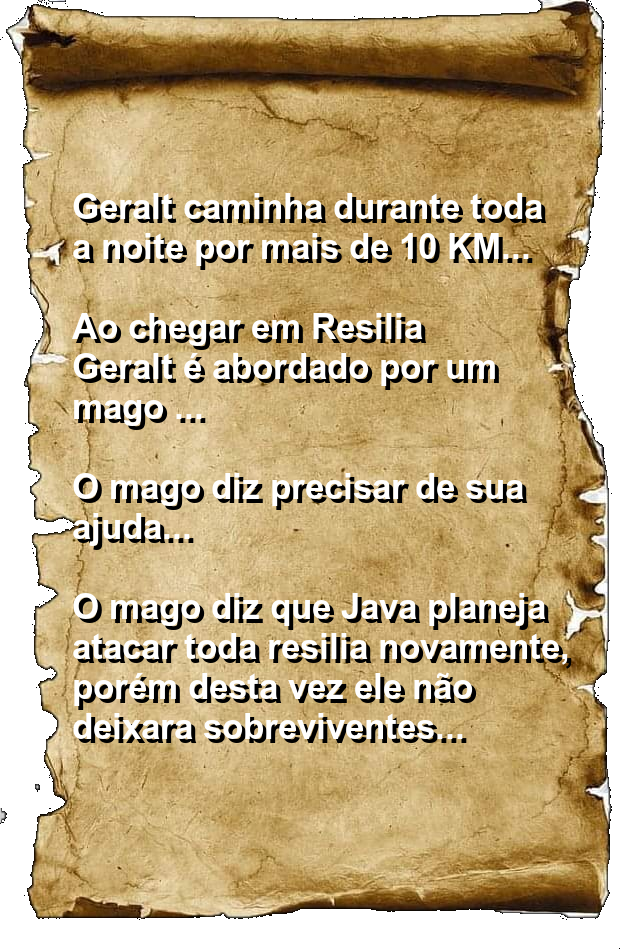
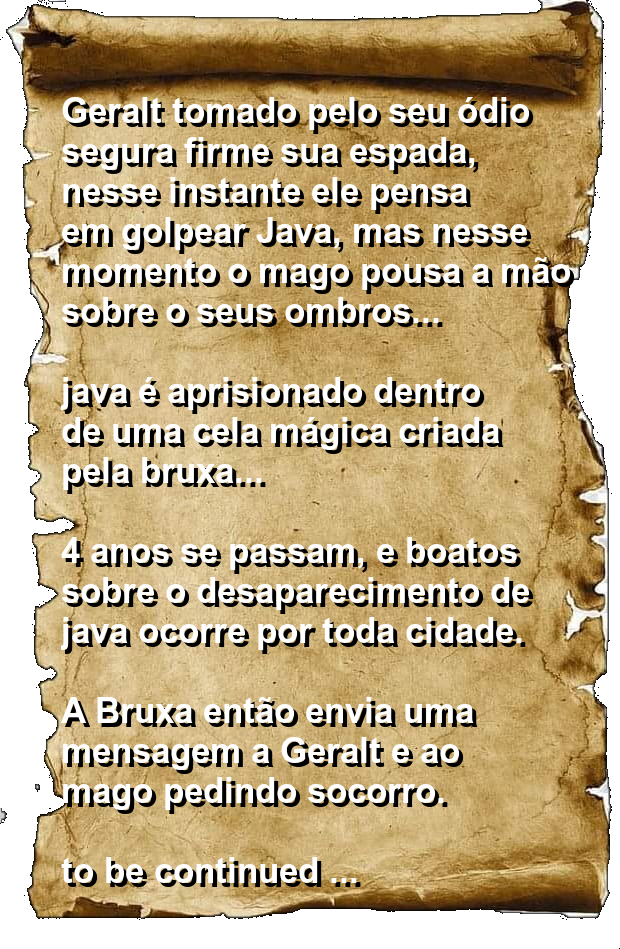
terminado por completo a historia do guerreiro

diff --git a/guerreiroPergunta2.html b/guerreiroPergunta2.html
@@ -7,28 +7,28 @@
             <link rel="stylesheet" href="estilo/personagens.css">
             <link href="https://fonts.googleapis.com/css2?family=Permanent+Marker&display=swap" rel="stylesheet">
         </head>
-        <body class="bgGuerreirocena1">
+        <body class="bgGuerreirocenaend">
             <header>
             </header>
             <main>
                 <section class="texto">
                     <div class="boxPapel">
-                    <img src="guerreiro/gp1.png" class="papel">
+                    <img src="guerreiro/gp2.png" class="papel">
                     </div>
                 </section>
             </main>
             <script>
-                    setTimeout(function(){alert("comece suas escolhas")
+                    setTimeout(function(){
                         while(true){ 
-                                var escolha = prompt(" digite:(1) para entrar no vilarejo" + "\n" + " digite:(2) para seguir viagem" )
+                                var escolha = prompt(" digite:(1) para matar Java" + "\n" + " digite:(2) para ficar calmo" )
                                 if(escolha == 1){
-                                    document.write(location.assign("gameOver.css"))
-                                    document.write(location.assign("guerreiroP1Resposta1.html"))
+                                    document.write(location.assign("personagens.css"))
+                                    document.write(location.assign("guerreiroP2Resposta1.html"))
                                     break
                                 }
                                 else if(escolha == 2){
                                     document.write(location.assign("personagens.css"))
-                                    document.write(location.assign("guerreiroP1Resposta2.html"))
+                                    document.write(location.assign("guerreiroP2Resposta2.html"))
                                     break;
                                 }
 

diff --git a/guerreiroP2Resposta1.html b/guerreiroP2Resposta1.html
@@ -4,23 +4,23 @@
             <meta charset="utf-8">
             <title>Guerreiro</title>
             <link rel="stylesheet" href="estilo/reset.css">
-            <link rel="stylesheet" href="estilo/gameOver.css">
+            <link rel="stylesheet" href="estilo/personagens.css">
             <link href="https://fonts.googleapis.com/css2?family=Permanent+Marker&display=swap" rel="stylesheet">
         </head>
-        <body class="bggameover">
+        <body class="bgGuerreirocenaend">
             <header>
             </header>
             <main>
                 <section class="texto">
                     <div class="boxPapel">
-                    <img src="guerreiro/gp1gameover.png" class="papel">
+                    <img src="guerreiro/gp2r1.png" class="papel">
                     </div>
                 </section>
             </main>
             <script>
-                setTimeout(function(){alert("comece novamente")
+                setTimeout(function(){alert("Final Do Jogo. Obrigado por Jogar")
                     while(true){ 
-                            var escolha = prompt(" digite:(1) para recomeçar" + "\n" + " digite:(2) para escolher outro personagem" )
+                            var escolha = prompt(" digite:(1) para jogar novamente" + "\n" + " digite:(2) para jogar com outro personagem" )
                             if(escolha == 1){
                                 document.write(location.assign("personagens.css"))
                                 document.write(location.assign("guerreiroHistoria.html"))

diff --git a/guerreiroP2Resposta2.html b/guerreiroP2Resposta2.html
@@ -4,23 +4,23 @@
             <meta charset="utf-8">
             <title>Guerreiro</title>
             <link rel="stylesheet" href="estilo/reset.css">
-            <link rel="stylesheet" href="estilo/gameOver.css">
+            <link rel="stylesheet" href="estilo/personagens.css">
             <link href="https://fonts.googleapis.com/css2?family=Permanent+Marker&display=swap" rel="stylesheet">
         </head>
-        <body class="bggameover">
+        <body class="bgGuerreirocenaend">
             <header>
             </header>
             <main>
                 <section class="texto">
                     <div class="boxPapel">
-                    <img src="guerreiro/gp1gameover.png" class="papel">
+                    <img src="guerreiro/gp2r2.png" class="papel">
                     </div>
                 </section>
             </main>
             <script>
-                setTimeout(function(){alert("comece novamente")
+                setTimeout(function(){alert("Final Do Jogo. Obrigado por Jogar")
                     while(true){ 
-                            var escolha = prompt(" digite:(1) para recomeçar" + "\n" + " digite:(2) para escolher outro personagem" )
+                            var escolha = prompt(" digite:(1) para jogar novamente" + "\n" + " digite:(2) para jogar com outro personagem" )
                             if(escolha == 1){
                                 document.write(location.assign("personagens.css"))
                                 document.write(location.assign("guerreiroHistoria.html"))

diff --git a/guerreiroHistoria2.html b/guerreiroHistoria2.html
@@ -1,0 +1,40 @@
+<!DOCTYPE html>
+    <html lang="pt-br">
+        <head>
+            <meta charset="utf-8">
+            <title>Guerreiro</title>
+            <link rel="stylesheet" href="estilo/reset.css">
+            <link rel="stylesheet" href="estilo/personagens.css">
+            <link href="https://fonts.googleapis.com/css2?family=Permanent+Marker&display=swap" rel="stylesheet">
+        </head>
+        <body class="bgGuerreirocena3">
+            <header>
+            </header>
+            <main>
+                <section class="texto">
+                    <div class="boxPapel">
+                    <img src="guerreiro/gH2.png" class="papel">
+                    </div>
+                </section>
+            </main>
+            <script>
+                 setTimeout(function(){
+                    
+                    alert("OK para prosseguir")
+                    while(true){
+                        var confirma = parseInt(prompt("digite um número para continuar"))
+                    
+                        if( confirma >= 0){
+                            document.write(location.assign("personagens.css"));
+                            document.write(location.assign("guerreiroHistoria3.html"));
+                            break;
+                        }
+                        else{
+                            alert("digite um número válido");
+                            
+                        }
+                    }
+                },2000);
+            </script> 
+        </body>
+    </html>

diff --git a/guerreiroHistoria3.html b/guerreiroHistoria3.html
@@ -7,27 +7,24 @@
             <link rel="stylesheet" href="estilo/personagens.css">
             <link href="https://fonts.googleapis.com/css2?family=Permanent+Marker&display=swap" rel="stylesheet">
         </head>
-        <body class="bgGuerreirocena1">
+        <body class="bgGuerreirocenaend">
             <header>
             </header>
             <main>
                 <section class="texto">
                     <div class="boxPapel">
-                    <img src="guerreiro/gH.png" class="papel">
+                    <img src="guerreiro/gH3.png" class="papel">
                     </div>
                 </section>
             </main>
             <script>
                  setTimeout(function(){
-                    
-                    alert("OK para prosseguir")
-                    alert("esta é uma pequena fala de nosso personagem" + "\n" + "daqui em diante você decidira as escolhas de Geralt")
                     while(true){
                         var confirma = parseInt(prompt("digite um número para continuar"))
                     
                         if( confirma >= 0){
                             document.write(location.assign("personagens.css"));
-                            document.write(location.assign("guerreiroPergunta1.html"));
+                            document.write(location.assign("guerreiroPergunta2.html"));
                             break;
                         }
                         else{

diff --git a/estilo/personagens.css b/estilo/personagens.css
@@ -1,11 +1,36 @@
 
-.bg{
+.bgGuerreirocena1{
   background-image: url("cenaGuerreiro1.gif");
   background-repeat: no-repeat;
   background-size: cover;
   background-position: center;
   background-attachment: fixed;
 }
+
+.bgGuerreirocena2{
+  background-image: url("cenaGuerreiro2");
+  background-repeat: no-repeat;
+  background-size: cover;
+  background-position: center;
+  background-attachment: fixed;
+}
+
+.bgGuerreirocena3{
+  background-image: url("cenah2.jpg");
+  background-repeat: no-repeat;
+  background-size: cover;
+  background-position: center;
+  background-attachment: fixed;
+}
+
+.bgGuerreirocenaend{
+  background-image: url("cccccc.jpg");
+  background-repeat: no-repeat;
+  background-size: cover;
+  background-position: center;
+  background-attachment: fixed;
+}
+
 
 .texto{
   width: 33.5%;

diff --git a/guerreiroP1Resposta2.html b/guerreiroP1Resposta2.html
@@ -7,13 +7,13 @@
             <link rel="stylesheet" href="estilo/personagens.css">
             <link href="https://fonts.googleapis.com/css2?family=Permanent+Marker&display=swap" rel="stylesheet">
         </head>
-        <body class="bg">
+        <body class="bgGuerreirocena1">
             <header>
             </header>
             <main>
                 <section class="texto">
                     <div class="boxPapel">
-                    <img src="guerreiro/gp2r2.png" class="papel">
+                    <img src="guerreiro/gp1r2.png" class="papel">
                     </div>
                 </section>
             </main>

diff --git a/estilo/gameOver.css b/estilo/gameOver.css
@@ -1,5 +1,5 @@
 
-.bg{
+.bggameover{
     background-image: url("gameoverr.png");
     background-repeat: no-repeat;
     background-size: cover;
